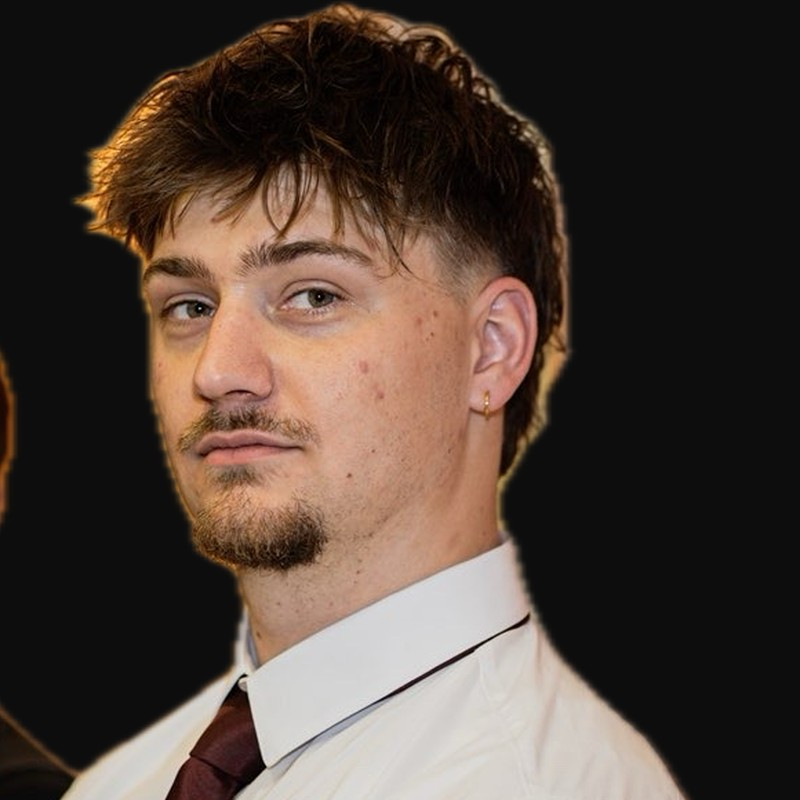
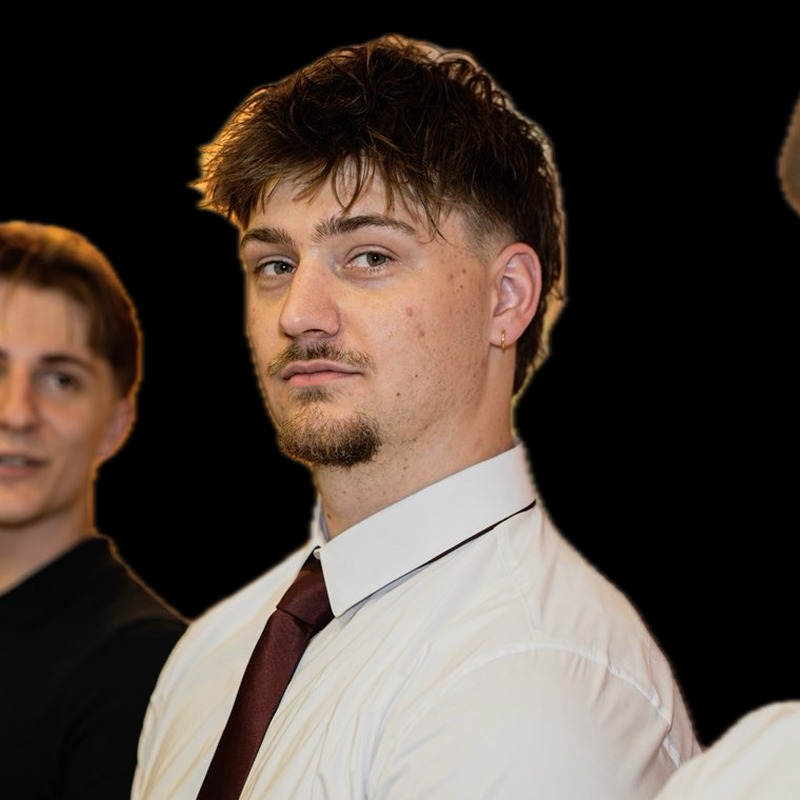
Show both hero pictures in color, wider small crop

diff --git a/lib/widgets/hero_section.dart b/lib/widgets/hero_section.dart
@@ -4,7 +4,7 @@ import 'package:material_ui/material_ui.dart';
 import '../data/profile.dart';
 import '../theme.dart';
 
-/// "Hi, I'm Name." on the left, big B&W picture on the right,
+/// "Hi, I'm Name." on the left, big picture on the right,
 /// smaller picture overlapping its bottom-left corner.
 class HeroSection extends StatelessWidget {
   const HeroSection({super.key, this.onCtaPressed});
@@ -192,7 +192,6 @@ class _HeroPictures extends StatelessWidget {
                     path: Profile.heroSmallImage,
                     radius: 14,
                     label: 'hero_small.jpg',
-                    grayscale: false,
                   ),
                 )
                     .animate()
@@ -219,79 +218,43 @@ class _HeroPictures extends StatelessWidget {
   }
 }
 
-/// Picture that is black & white and fades to color on hover
-/// (or always in color when [grayscale] is false).
-class _Picture extends StatefulWidget {
+/// Rounded picture with a placeholder if the asset is missing.
+class _Picture extends StatelessWidget {
   const _Picture({
     required this.path,
     required this.radius,
     required this.label,
-    this.grayscale = true,
   });
 
   final String path;
   final double radius;
   final String label;
 
-  /// When false, the picture always shows in full color.
-  final bool grayscale;
-
-  @override
-  State<_Picture> createState() => _PictureState();
-}
-
-class _PictureState extends State<_Picture> {
-  bool _hover = false;
-
-  static List<double> _saturation(double s) {
-    const r = 0.2126, g = 0.7152, b = 0.0722;
-    final i = 1 - s;
-    return [
-      r * i + s, g * i, b * i, 0, 0, //
-      r * i, g * i + s, b * i, 0, 0, //
-      r * i, g * i, b * i + s, 0, 0, //
-      0, 0, 0, 1, 0,
-    ];
-  }
-
   @override
   Widget build(BuildContext context) {
-    return MouseRegion(
-      onEnter: (_) => setState(() => _hover = true),
-      onExit: (_) => setState(() => _hover = false),
-      child: ClipRRect(
-        borderRadius: BorderRadius.circular(widget.radius),
-        child: TweenAnimationBuilder<double>(
-          tween: Tween(end: (_hover || !widget.grayscale) ? 1 : 0),
-          duration: const Duration(milliseconds: 600),
-          curve: Curves.easeOut,
-          builder: (context, s, child) => ColorFiltered(
-            colorFilter: ColorFilter.matrix(_saturation(s)),
-            child: child,
-          ),
-          child: Image.asset(
-            widget.path,
-            fit: BoxFit.cover,
-            width: double.infinity,
-            height: double.infinity,
-            errorBuilder: (context, _, __) => Container(
-              color: AppColors.surfaceHi,
-              alignment: Alignment.center,
-              padding: const EdgeInsets.all(12),
-              child: Column(
-                mainAxisSize: MainAxisSize.min,
-                children: [
-                  const Icon(Icons.image_outlined,
-                      size: 32, color: AppColors.faint),
-                  const SizedBox(height: 8),
-                  Text(
-                    'assets/images/${widget.label}',
-                    textAlign: TextAlign.center,
-                    style: monoStyle(size: 10, color: AppColors.faint),
-                  ),
-                ],
+    return ClipRRect(
+      borderRadius: BorderRadius.circular(radius),
+      child: Image.asset(
+        path,
+        fit: BoxFit.cover,
+        width: double.infinity,
+        height: double.infinity,
+        errorBuilder: (context, _, __) => Container(
+          color: AppColors.surfaceHi,
+          alignment: Alignment.center,
+          padding: const EdgeInsets.all(12),
+          child: Column(
+            mainAxisSize: MainAxisSize.min,
+            children: [
+              const Icon(Icons.image_outlined,
+                  size: 32, color: AppColors.faint),
+              const SizedBox(height: 8),
+              Text(
+                'assets/images/$label',
+                textAlign: TextAlign.center,
+                style: monoStyle(size: 10, color: AppColors.faint),
               ),
-            ),
+            ],
           ),
         ),
       ),

diff --git a/lib/data/profile.dart b/lib/data/profile.dart
@@ -20,7 +20,7 @@ class Profile {
   static const currentlyLine2 = 'Starbourg';
 
   /// Drop your pictures in assets/images/ with these names (or change paths).
-  /// They are shown in black & white, in color on hover.
+  /// Shown in full color.
   static const heroImage = 'assets/images/hero_main.jpg'; // big, right
   static const heroSmallImage =
       'assets/images/hero_small.jpg'; // small, bottom-left

diff --git a/CONTEXT.md b/CONTEXT.md
@@ -12,7 +12,7 @@ Git repo: https://github.com/MartinVermel/interactive_resume (public, branch mai
 - Dart `>=3.5.0 <4.0.0`.
 - Deps: `material_ui` (used instead of `package:flutter/material.dart` imports), `flutter_animate`, `url_launcher`.
 - Fonts (assets/fonts): SpaceGrotesk (display), JetBrainsMono (mono labels).
-- Images: `assets/images/hero_main.jpg` (LinkedIn photo), `assets/images/hero_small.jpg` (center guy with burgundy tie, cropped from group photo).
+- Images: `assets/images/hero_main.jpg` (LinkedIn photo), `assets/images/hero_small.jpg` (center guy with burgundy tie, wide crop of group photo on black).
 
 ## Structure
 ```
@@ -27,7 +27,7 @@ lib/
   pages/resume_page.dart  Page layout + private _SectionHeader(title, count, optional hint)
   widgets/
     intro_section.dart    Giant intro title
-    hero_section.dart     Hero (greeting, tagline with **bold** markup, images B&W -> color on hover)
+    hero_section.dart     Hero (greeting, tagline with **bold** markup, images in full color)
     skill_carousel.dart   Infinite 3D coverflow, flip cards, autoplay, keyboard
     skill_card.dart
     project_list.dart     Editorial hoverable rows, open repo in new tab
